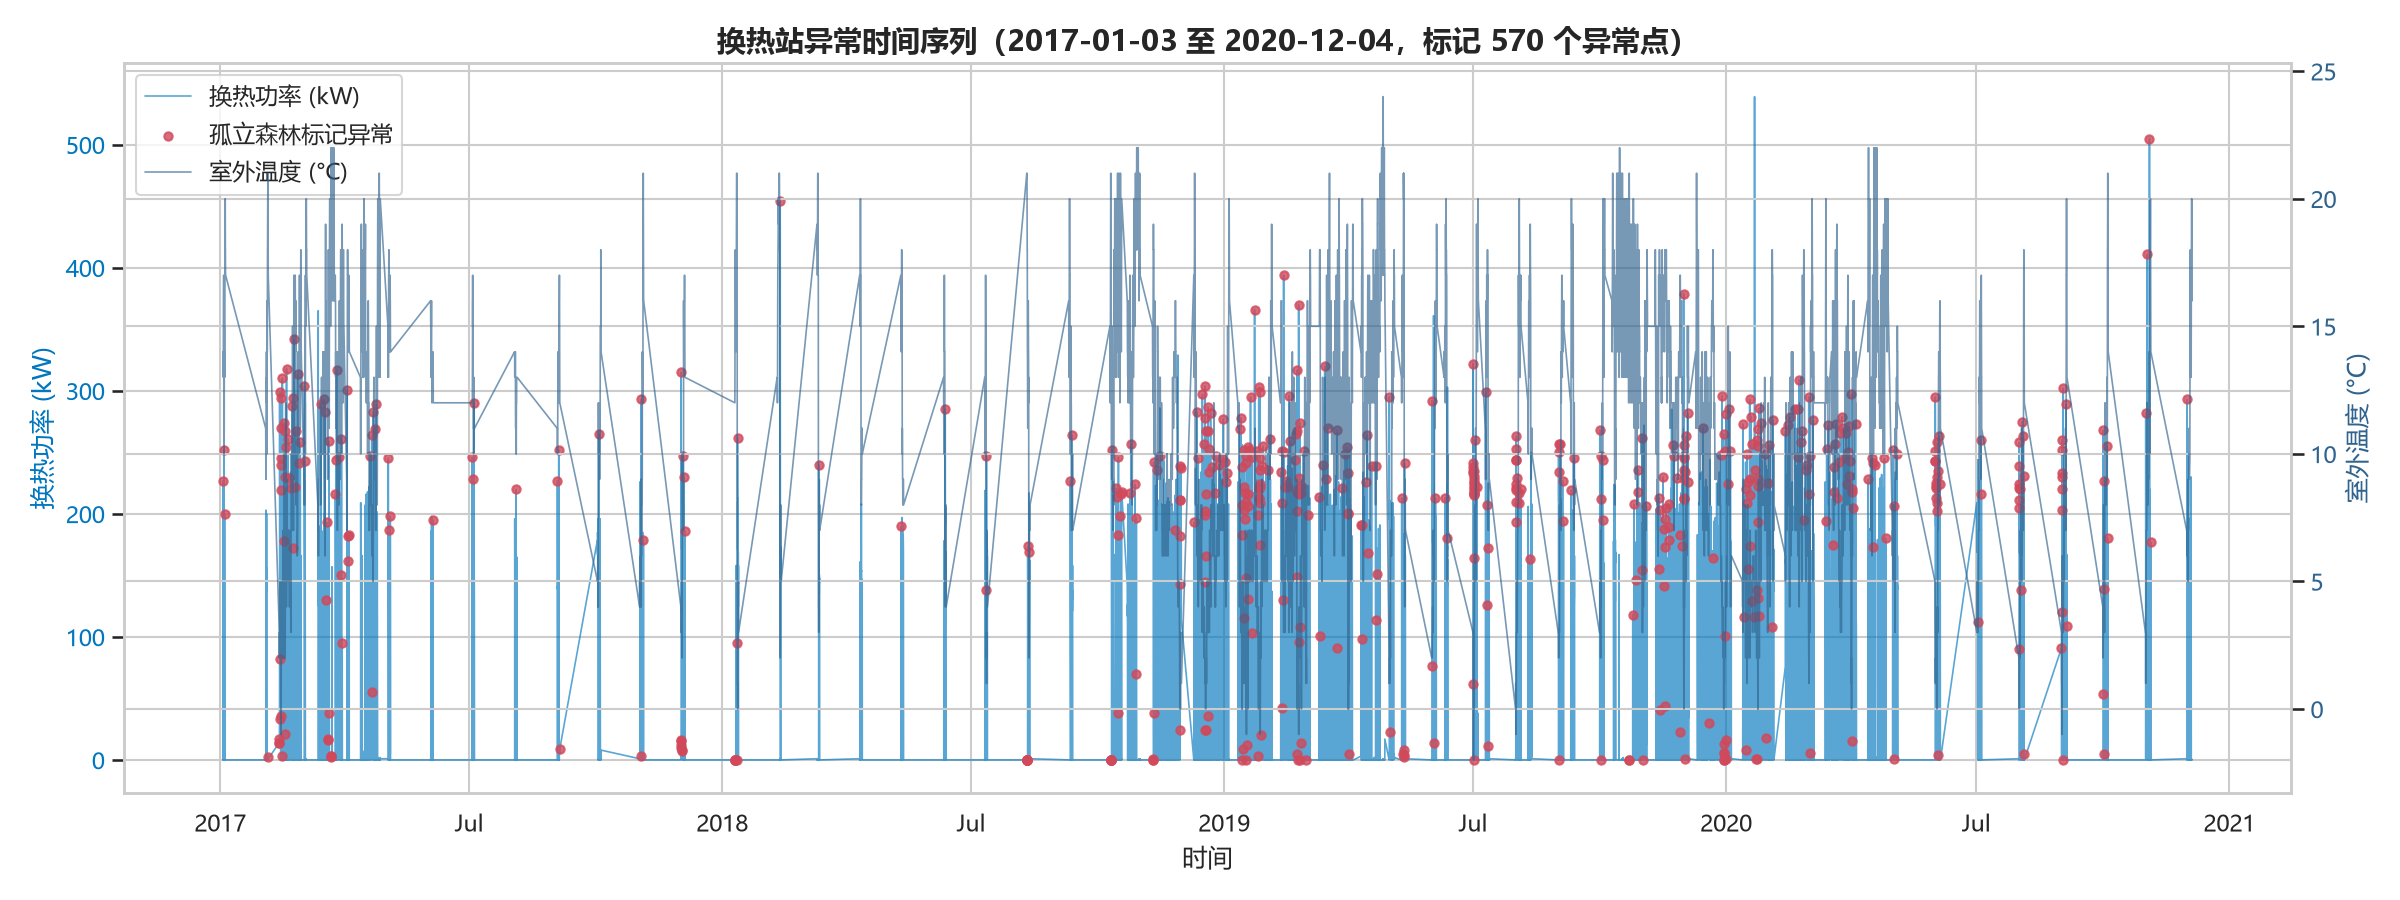
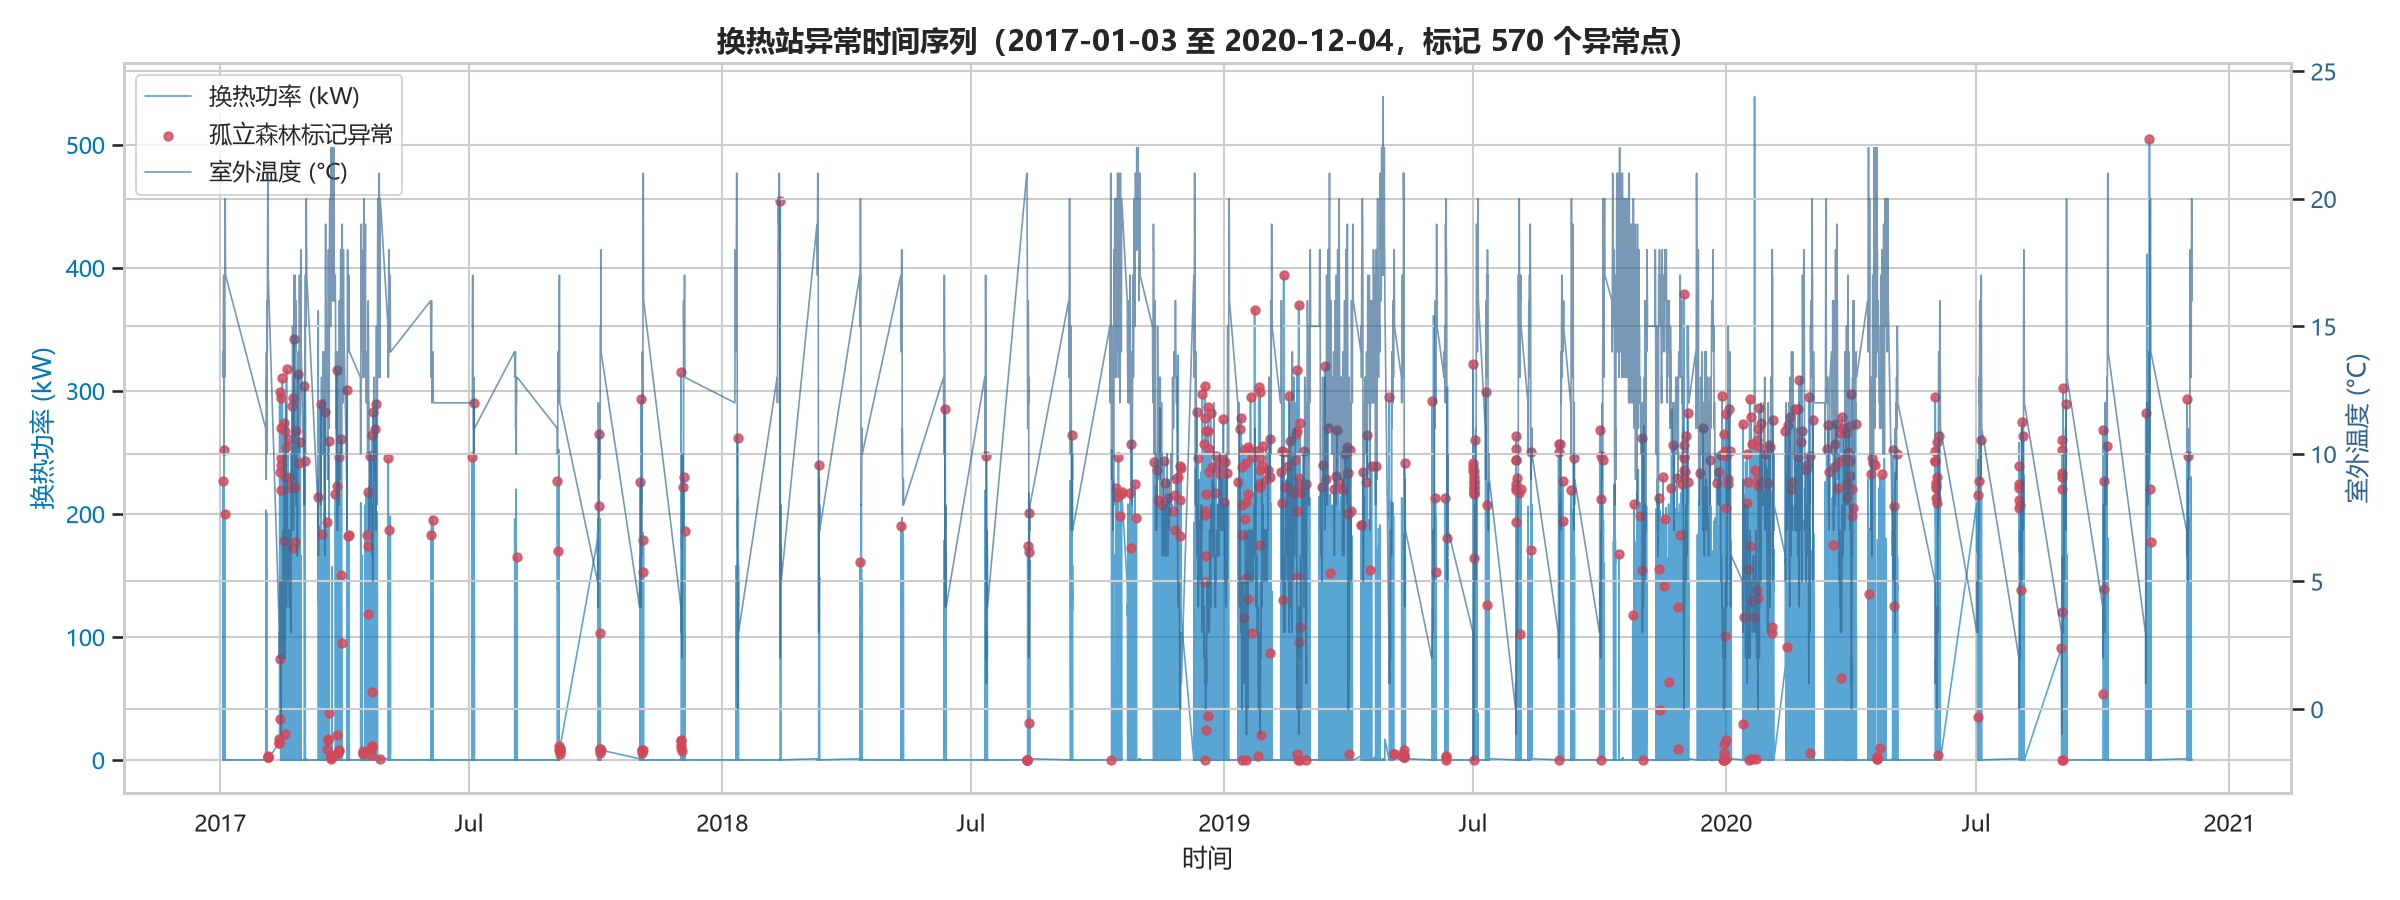
Add temperature difference feature and improve README

diff --git a/heat_exchange_simulation.py b/heat_exchange_simulation.py
@@ -349,9 +349,13 @@ def save_anomaly_timeline(data: pd.DataFrame) -> None:
 
 def run_isolation_forest(data: pd.DataFrame) -> pd.DataFrame:
     """使用孤立森林检测异常并保存带预测结果的数据。"""
+    data = data.copy()
+    data["temp_diff"] = data["supply_temp"] - data["return_temp"]
+
     feature_candidates = [
         "supply_temp",
         "return_temp",
+        "temp_diff",
         "flow_rate",
         "heat_power",
         "valve_opening",
@@ -371,7 +375,6 @@ def run_isolation_forest(data: pd.DataFrame) -> pd.DataFrame:
         random_state=RANDOM_SEED,
         n_estimators=200,
     )
-    data = data.copy()
     data["iforest_prediction"] = model.fit_predict(data[feature_columns])
     output_path = OUTPUT_DIR / "heat_exchange_data_with_iforest.csv"
     data.to_csv(output_path, index=False, encoding="utf-8-sig")

diff --git a/README.md b/README.md
@@ -4,7 +4,7 @@
 
 ## 项目状态
 
-[![](https://img.shields.io/badge/version-1.1-blue)](#版本历史)
+[![](https://img.shields.io/badge/version-1.2-blue)](#版本历史)
 [![](https://img.shields.io/badge/status-prototype-orange)](#项目定位)
 
 ## 项目背景
@@ -107,7 +107,7 @@ python .\heat_exchange_simulation.py --source simulated
 
 ### 真实数据读取与字段适配
 
-本仓库使用的真实数据来源于 DHS（District Heating System，区域供热系统）公开运行数据集，包含二次网供/回水温度、换热功率及室外温度等逐时记录。
+本仓库使用的真实数据来源于 [Kaggle DHS Substation Data 公开数据集](https://www.kaggle.com/datasets/milanzdravkovic/dhs-substation-data)，即 DHS（District Heating System，区域供热系统）运行数据，包含二次网供/回水温度、换热功率及室外温度等逐时记录。
 
 真实数据文件为 `data/raw/PodstanicaL8.csv`，包含 11,399 条小时级记录。脚本读取后使用以下字段映射：
 
@@ -123,26 +123,28 @@ python .\heat_exchange_simulation.py --source simulated
 
 ### 特征工程
 
-模拟数据模式直接使用以下 5 个原始传感器特征训练孤立森林：
+模拟数据模式使用以下原始传感器特征及供回水温差训练孤立森林：
 
 ```text
 supply_temp
 return_temp
+temp_diff
 flow_rate
 valve_opening
 outside_temp
 ```
 
-真实数据模式使用实际存在且完成插值的特征：
+真实数据模式使用实际存在且完成插值的特征，并额外构造供回水温差：
 
 ```text
 supply_temp
 return_temp
+temp_diff
 heat_power
 outside_temp
 ```
 
-`indoor_temp`、`valve_opening` 和 `timestamp` 不参与当前孤立森林训练。真实数据没有 `flow_rate`，因此散点图横轴自动使用 `heat_power`。
+其中，`temp_diff = supply_temp - return_temp`，用于显式表达换热站供回水温差这一物理关系，帮助模型区分温度水平变化和供热工况异常。`indoor_temp`、`valve_opening` 和 `timestamp` 不参与当前孤立森林训练。真实数据没有 `flow_rate`，因此散点图横轴自动使用 `heat_power`。
 
 ### 模型选型与参数
 
@@ -162,6 +164,12 @@ IsolationForest(
 - `-1`：模型判定为异常
 
 ## 实验结果
+
+### 异常时间序列图
+
+这是本项目最直接的结果图：它将换热功率或流量、室外温度和孤立森林标记的异常点放在同一时间轴上，用于观察异常点是否集中出现、是否伴随运行变量突变。
+
+![异常时间序列](docs/heat_exchange_anomaly_timeline.png)
 
 ### 检测汇总表
 
@@ -190,12 +198,12 @@ IsolationForest(
 | --- | ---: |
 | 数据量 | 11,399 |
 | 数据粒度 | 小时级 |
-| 模型使用特征 | `supply_temp`、`return_temp`、`heat_power`、`outside_temp` |
+| 模型使用特征 | `supply_temp`、`return_temp`、`temp_diff`、`heat_power`、`outside_temp` |
 | 模型标记异常点数量 | 570 |
 | 故障标签 | 无 |
 | 召回率 | 不计算 |
 
-真实数据没有人工故障标签，因此 `570` 个异常点只是模型结果，不能直接解释为 570 个真实故障。
+真实数据没有人工故障标签，因此 `570` 个异常点只是模型结果，不能直接解释为 570 个真实故障。加入 `temp_diff` 后，模型显式使用供回水温差这一物理关系，但仍需要维护记录或人工复核来判断异常是否真实。
 
 ### 可视化图表
 
@@ -206,10 +214,6 @@ IsolationForest(
 散点图在模拟模式下按故障标签展示流量与回水温度的关系；在真实数据模式下，由于没有人工故障标签，按孤立森林预测结果区分模型正常点和模型异常点，并展示换热功率与回水温度的关系：
 
 ![流量与回水温度关系](docs/heat_exchange_flow_return_scatter.png)
-
-异常时间序列图将换热功率或流量、室外温度和孤立森林标记的异常点放在同一张图中，用于观察异常点的时间分布：
-
-![异常时间序列](docs/heat_exchange_anomaly_timeline.png)
 
 ## 不足与改进方向
 
@@ -239,7 +243,8 @@ IsolationForest(
 | --- | --- | --- |
 | V1.0 | 2026-08-09 | 模拟数据生成、孤立森林原型验证、README 初版 |
 | V1.1 | 2026-08-10 | 接入 Kaggle DHS 换热站 CSV，增加真实数据字段适配和自动模式 |
-| V1.2 | *计划中* | 增加真实故障标签、业务规则过滤和事件级评估 |
+| V1.2 | 2026-08-11 | 增加 `temp_diff` 特征、异常时间序列图、真实数据异常可视化和 Kaggle 来源说明 |
+| V1.3 | *计划中* | 增加真实故障标签、业务规则过滤和事件级评估 |
 
 ## 项目结构
 
